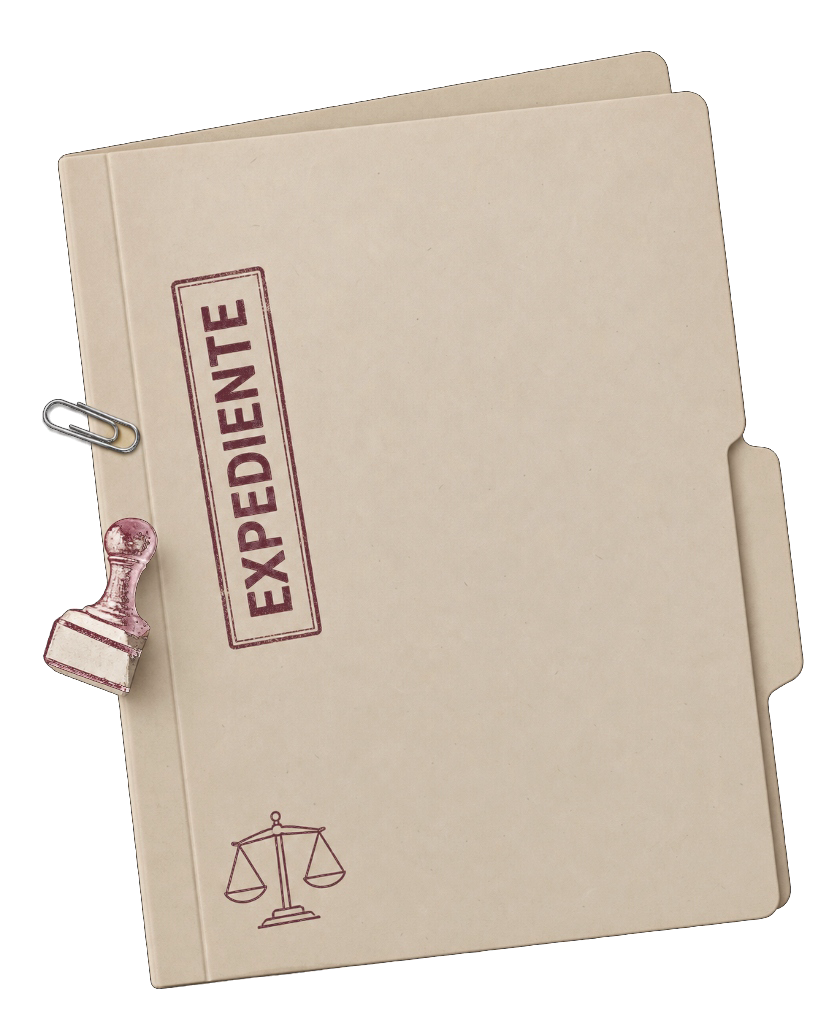
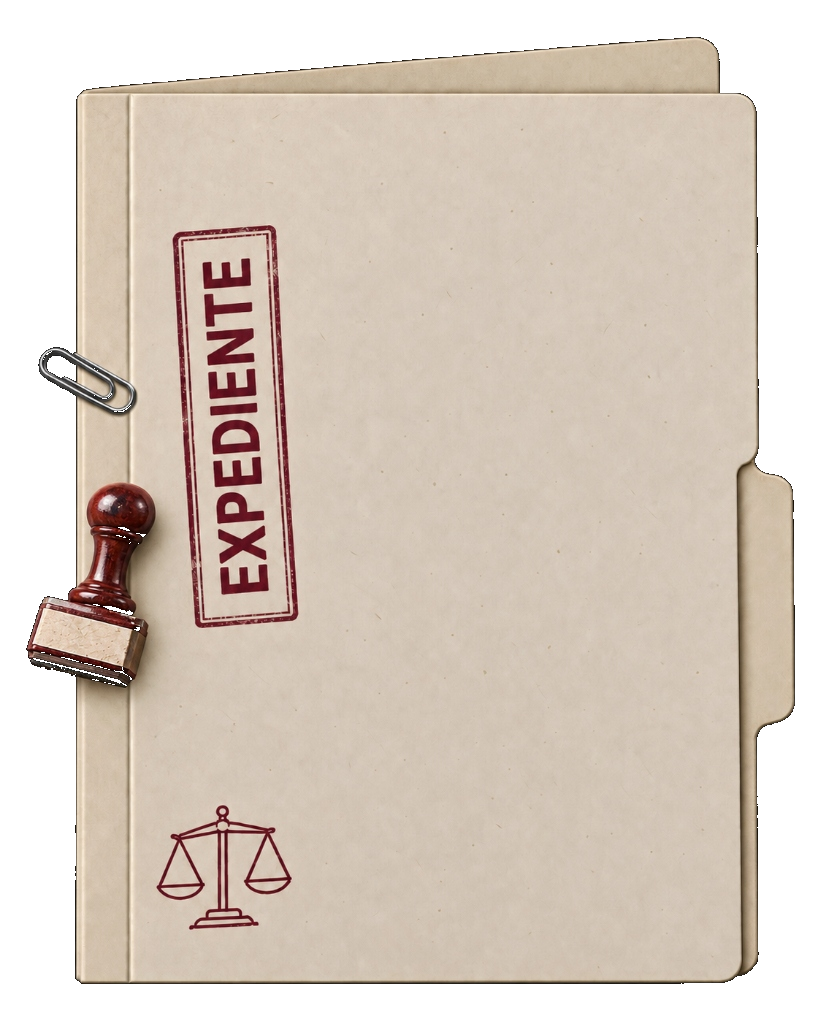
fix(ui): use raw pristine PNG assets with lossless multiply blend for hero graphics

Changed region(s): [[0.0305, 0.0312, 1.0, 0.9688]]

diff --git a/app/globals.css b/app/globals.css
@@ -1,5 +1,5 @@
 :root{--ink:#2c2526;--muted:#736968;--purple:#6b2d3e;--purple-dark:#52222f;--lavender:#f1e8dc;--lavender-soft:#f7f2ea;--line:#e6ded0;--paper:#fbf8f3;--white:#fff;--peach:#f3ebe0;--danger:#9d374c;--radius:20px;--shadow:0 16px 50px rgba(44,37,38,0.07)}
-*{box-sizing:border-box}html{scroll-behavior:smooth;scroll-padding-top:28px}body{margin:0;background:var(--paper);color:var(--ink);font-family:Inter,ui-sans-serif,-apple-system,BlinkMacSystemFont,'Segoe UI',sans-serif;font-size:15px;line-height:1.6}button,input,select,textarea{font:inherit}button,a,input,select,textarea{-webkit-tap-highlight-color:transparent}button{cursor:pointer}button:disabled{cursor:not-allowed;opacity:.5}a{color:inherit;text-decoration:none}button{color:inherit}h1,h2,h3,h4,p{margin-top:0}h1,h2,h3{line-height:1.17;letter-spacing:-.035em}h1{font-size:48px}h2{font-size:34px}h3{font-size:21px}h4{margin-bottom:7px;letter-spacing:-.01em}p{color:var(--muted)}svg{flex-shrink:0;stroke-width:1.65}::selection{background:#f1d6dd}button:focus-visible,a:focus-visible,input:focus-visible,select:focus-visible,textarea:focus-visible,summary:focus-visible{outline:3px solid #6b2d3e;outline-offset:4px}button{transition:background .18s,transform .18s,box-shadow .18s}button:active:not(:disabled){transform:translateY(1px)}.wrap{width:min(1180px,calc(100% - 80px));margin-inline:auto}.button{display:inline-flex;align-items:center;justify-content:center;gap:11px;min-height:50px;padding:13px 25px;border:1px solid transparent;border-radius:25px;background:var(--purple);color:white;font-weight:600;font-size:14px;letter-spacing:.005em;box-shadow:0 4px 14px rgba(107,45,62,0.18)}.button:hover:not(:disabled){background:var(--purple-dark);box-shadow:0 7px 22px rgba(107,45,62,0.28)}.button.small{min-height:40px;padding:9px 18px;font-size:13px;border-radius:20px}.button.outline{background:transparent;border-color:#dcd1c0;color:var(--ink);box-shadow:none}.button.outline:hover:not(:disabled){background:var(--lavender);border-color:var(--line)}.button.light{background:white;color:var(--purple-dark)}.text-button,.quiet-link,.back-button{border:0;background:none;display:inline-flex;align-items:center;gap:8px;padding:0;color:var(--ink);font-size:13px;font-weight:600}.text-button:hover,.quiet-link:hover{text-decoration:underline}.icon-button{display:inline-flex;align-items:center;justify-content:center;width:36px;height:36px;padding:0;border:0;background:transparent;border-radius:9px}.icon-button:hover{background:var(--lavender)}.brand{font-size:28px;letter-spacing:-1.5px;font-weight:750;white-space:nowrap;color:var(--ink)}.brand>span:not(.brand-dot){font-weight:430}.brand-dot{color:var(--purple);font-weight:800}.public-header{height:104px;display:flex;align-items:center;justify-content:space-between}.public-header nav{display:flex;align-items:center;gap:35px;font-size:13px}.public-header nav a:hover{color:var(--purple)}.public-header nav .text-button{color:var(--ink);font-weight:400}.hero{display:grid;grid-template-columns:1fr 1.05fr;align-items:center;min-height:640px;gap:40px;padding-top:20px;padding-bottom:50px}.eyebrow{display:flex;align-items:center;gap:9px;font-size:12px;letter-spacing:.02em;color:var(--muted);margin-bottom:27px}.tiny-dot{display:inline-block;width:6px;height:6px;border-radius:50%;background:var(--purple);flex-shrink:0}.hero h1{font-size:clamp(46px,4.8vw,68px);font-weight:700;letter-spacing:-.045em;line-height:1.08;margin-bottom:25px;color:var(--ink)}.hero h1 em{font-family:Georgia,'Times New Roman',serif;font-weight:400;font-style:italic;color:var(--purple);letter-spacing:-.04em}.hero-description{font-size:17px;line-height:1.75;max-width:440px;color:var(--muted)}.hero-actions{display:flex;gap:25px;align-items:center;margin-top:31px}.quiet-link{color:var(--ink);font-size:13px;font-weight:600}.quiet-link span{font-size:16px;margin-left:4px}.hero-note{display:flex;gap:8px;align-items:center;font-size:11px;color:var(--muted);margin-top:26px}.hero-visual{position:relative;isolation:isolate;min-height:540px;width:100%;display:flex;align-items:center;justify-content:center;margin-top:10px}.courthouse-bg{position:absolute;right:-50px;top:-40px;width:580px;height:auto;opacity:.42;pointer-events:none;z-index:0}.hero-img{max-width:100%;height:auto;display:block}.layer-expediente{position:absolute;left:-35px;top:-15px;width:385px;z-index:1;filter:drop-shadow(0 14px 40px rgba(60,45,35,0.12))}.layer-tutela{position:absolute;right:-35px;top:-15px;width:380px;z-index:2;filter:drop-shadow(0 16px 45px rgba(50,40,30,0.11))}.layer-tu-caso-wrapper{position:relative;width:375px;z-index:4;transform:rotate(-1.5deg);filter:drop-shadow(0 25px 50px rgba(50,30,40,0.16));animation:card-enter .75s both}.layer-tu-caso{width:100%;height:auto;display:block}.tu-caso-overlay{position:absolute;left:26px;right:26px;top:110px;bottom:35px;display:flex;flex-direction:column;pointer-events:none}.tu-caso-overlay h2{font-size:18px;line-height:1.25;font-weight:700;color:var(--ink);margin-bottom:3px}.tu-caso-overlay p{font-size:11px;color:var(--muted);margin-bottom:12px}.folder-underlay{position:absolute;left:-15px;top:20px;width:370px;height:445px;background:#eadecb;border:1px solid #dacbb6;border-radius:26px;transform:rotate(-8deg);box-shadow:0 14px 40px rgba(60,45,35,0.08);z-index:1;padding:24px}.folder-underlay .tab-top{position:absolute;top:-22px;left:65px;width:125px;height:24px;background:#eadecb;border-radius:14px 14px 0 0;border:1px solid #dacbb6;border-bottom:none}.folder-underlay .tab-right{position:absolute;right:-18px;top:140px;width:20px;height:110px;background:#eadecb;border-radius:0 14px 14px 0;border:1px solid #dacbb6;border-left:none}.folder-underlay .stamp-vertical{position:absolute;left:22px;top:75px;writing-mode:vertical-rl;transform:rotate(180deg);font-size:15px;font-weight:800;letter-spacing:.25em;color:#8a3748;border:2.5px solid #8a3748;padding:14px 5px;border-radius:4px;opacity:.88}.folder-underlay .stamp-handle-pos{position:absolute;left:-10px;bottom:135px;transform:rotate(-12deg);opacity:.9;filter:drop-shadow(0 4px 10px rgba(0,0,0,0.15))}.folder-underlay .scale-stamp-pos{position:absolute;left:40px;bottom:35px;opacity:.38;color:#6b2d3e}.folder-paperclip{position:absolute;left:135px;top:-14px;z-index:3;transform:rotate(-12deg);filter:drop-shadow(0 2px 4px rgba(0,0,0,0.15))}.tutela-sheet{position:absolute;right:-20px;top:30px;width:355px;height:435px;background:#ffffff;border:1px solid #e3d8ca;border-radius:18px;transform:rotate(8deg);box-shadow:0 16px 45px rgba(50,40,30,0.07);z-index:2;padding:26px 24px;display:flex;flex-direction:column}.tutela-paperclip{position:absolute;right:32px;top:-14px;z-index:3;transform:rotate(22deg);filter:drop-shadow(0 2px 4px rgba(0,0,0,0.15))}.tutela-header{text-align:center;border-bottom:1px solid #ede4d7;padding-bottom:10px;margin-bottom:10px}.tutela-escudo{width:26px;height:26px;margin:0 auto 4px;opacity:.85}.tutela-header small{display:block;font-size:8.5px;font-weight:800;letter-spacing:.15em;color:var(--ink)}.tutela-header b{display:block;font-size:13px;font-weight:800;letter-spacing:.05em;color:var(--ink);margin-top:2px}.tutela-body{font-size:8.5px;color:#7e7473;line-height:1.55;flex:1;overflow:hidden}.tutela-seal{position:absolute;right:25px;bottom:55px;width:80px;height:80px;border:2px dashed #8c3547;border-radius:50%;display:flex;flex-direction:column;align-items:center;justify-content:center;color:#8c3547;font-size:6.5px;font-weight:800;text-align:center;padding:4px;transform:rotate(-14deg);opacity:.85;background:rgba(255,255,255,0.85)}.bottom-paperclip{position:absolute;right:20px;bottom:-12px;z-index:3;transform:rotate(-45deg);filter:drop-shadow(0 2px 4px rgba(0,0,0,0.15))}.signature-line{border-top:1px solid #736968;width:98px;font-size:9.5px;font-family:Georgia,serif;font-style:italic;color:var(--ink);padding-top:2px;margin-top:auto}.dossier-card{background:white;width:375px;padding:24px;border-radius:24px;box-shadow:0 30px 75px rgba(50,30,40,0.13);border:1px solid #ebdcc9;transform:rotate(-1.5deg);position:relative;z-index:4;animation:card-enter .75s both}.card-tab{position:absolute;top:-23px;left:32px;background:#efe6d8;border:1px solid #ebdcc9;border-bottom:none;border-radius:12px 12px 0 0;padding:4px 20px;font-size:12px;font-weight:600;color:var(--purple)}.card-top-row{display:flex;align-items:center;justify-content:space-between;margin-bottom:14px}.card-folder-badge{width:42px;height:42px;border-radius:12px;background:#f3eae3;display:flex;align-items:center;justify-content:center;color:var(--purple);border:1px solid #e7dcce;margin-bottom:14px}.badge-progress{background:#efe7db;color:var(--ink);font-size:10px;font-weight:500;padding:4px 12px;border-radius:20px;border:1px solid #e2d6c4}.dossier-card .overline{font-size:9px;font-weight:700;letter-spacing:.12em;color:var(--purple);margin-bottom:6px;display:block}.dossier-card h2{font-size:21px;line-height:1.25;font-weight:700;color:var(--ink);margin-bottom:6px}.dossier-card>p{font-size:12px;color:var(--muted);margin-bottom:18px}.card-item-row{display:flex;align-items:center;gap:12px;background:#f9f5ee;border:1px solid #eee4d5;border-radius:14px;padding:12px 14px;margin-bottom:10px}.card-item-icon{width:38px;height:38px;border-radius:10px;background:white;display:flex;align-items:center;justify-content:center;color:var(--purple);border:1px solid #e7dcce;flex-shrink:0}.card-item-info{flex:1;min-width:0}.card-item-info b{display:block;font-size:12px;font-weight:700;color:var(--ink)}.card-item-info span{display:block;font-size:10px;color:var(--muted);margin-top:1px}.check-badge{width:22px;height:22px;border-radius:50%;background:#387250;color:white;display:flex;align-items:center;justify-content:center;flex-shrink:0}.row-right-icons{display:flex;align-items:center;gap:6px;margin-left:auto}.avatar-group{display:flex;align-items:center}.avatar-thumb{width:24px;height:24px;border-radius:50%;border:2px solid white;margin-left:-6px;object-fit:cover;background:#6b2d3e;color:white;display:inline-flex;align-items:center;justify-content:center;font-size:9px;font-weight:700}.avatar-thumb.two{background:#4a242e}.floating-pill{position:absolute;z-index:6;background:white;border:1px solid #e7dcce;border-radius:30px;padding:8px 16px;box-shadow:0 10px 25px rgba(50,35,40,0.08);display:flex;align-items:center;gap:8px;font-size:11px;font-weight:500;color:var(--ink);white-space:nowrap}.fp-top-left{left:-35px;top:65px;padding:9px 16px}.fp-top-left div{line-height:1.2}.fp-top-left b{display:block;font-size:11px;font-weight:700}.fp-top-left span{font-size:10px;color:var(--muted)}.fp-top-right{right:-15px;top:5px}.fp-bottom-left{left:-25px;bottom:55px}.fp-bottom-center{left:60px;bottom:-20px}.fp-bottom-right{right:-30px;bottom:20px}.examples{text-align:center;padding:35px 0 65px}.examples p{font-size:13px;margin-bottom:18px;color:var(--muted);font-weight:500}.examples>div{display:flex;justify-content:center;gap:12px;flex-wrap:wrap}.example-pill{display:inline-flex;gap:12px;align-items:center;padding:10px 20px;border:1px solid #e2d6c5;border-radius:30px;background:#f3ede3;font-size:12px;color:var(--ink);font-weight:500}.example-pill:hover,.example-pill.active{background:#efe4d4;border-color:var(--purple);color:var(--purple);font-weight:600}.examples small{font-size:11px;display:block;margin-top:20px;color:var(--muted)}.how-section{background:#f5efe4;padding:75px 0}.section-heading{display:flex;justify-content:space-between;align-items:center;gap:20px;margin-bottom:31px}.section-heading h2{margin-bottom:0;font-weight:530}.section-heading p{font-size:13px;margin:0;line-height:1.8}.steps-grid{display:grid;grid-template-columns:repeat(3,1fr);gap:20px}.step-card{background:#fff;padding:29px;border-radius:17px;border:1px solid #ebe5f0}.step-top{display:flex;align-items:center;justify-content:space-between;color:var(--purple);margin-bottom:31px}.step-top span{font-size:11px;letter-spacing:.04em;color:#b7a3c7}.step-card h3{font-size:19px;font-weight:550;margin-bottom:14px}.step-card p{font-size:12px;line-height:1.9;margin-bottom:0}.privacy-section{display:grid;grid-template-columns:1fr 1fr;gap:85px;align-items:center;padding:100px 70px}.privacy-section h2{font-size:39px;font-weight:520}.privacy-section p{font-size:13px;max-width:400px}.privacy-art{height:286px;border:1px solid #e7deed;border-radius:50%;background:radial-gradient(ellipse,#eee5f5 0%,#f9f5fc 60%,#fcfbf9 70%);display:flex;align-items:center;justify-content:center;position:relative;color:var(--purple)}.privacy-art>img{width:78%;height:auto;border-radius:20px;box-shadow:0 14px 45px #6b4b8710;transform:rotate(-5deg)}.privacy-lock{position:absolute;left:25px;top:24px;width:49px;height:49px;border-radius:15px;background:#faf7fc;border:1px solid #ddcce9;display:flex;align-items:center;justify-content:center;color:var(--purple);box-shadow:0 10px 25px #6b4b8714}.privacy-art>svg{box-sizing:content-box;padding:29px;border:1px solid #ddcce9;border-radius:24px;background:#faf7fc;box-shadow:0 14px 45px #6b4b8710;transform:rotate(-8deg)}.privacy-art .tag{position:absolute;bottom:35px;right:0;font-size:11px;padding:8px 15px;transform:rotate(3deg)}.check-list{padding:0;list-style:none;margin:23px 0 0}.check-list li{display:flex;align-items:center;gap:9px;font-size:12px;color:var(--muted);margin-bottom:12px}.check-list svg{color:var(--purple)}.lawyer-banner{padding:39px 45px;background:#f2e9dc;border:1px solid #e4d7c6;border-radius:21px;display:flex;justify-content:space-between;align-items:center;gap:35px}.lawyer-banner h2{font-size:29px;font-weight:520;margin-bottom:11px}.lawyer-banner p{font-size:12px;margin:0;color:var(--muted)}.lawyer-banner .overline{font-size:8px;color:var(--purple)}.lawyer-banner .button{white-space:nowrap}.faq{display:grid;grid-template-columns:.85fr 1.15fr;gap:80px;padding-block:100px}.faq h2{font-size:32px;font-weight:500}.faq details{border-bottom:1px solid var(--line);padding:20px 0}.faq details:first-child{padding-top:0}.faq summary{list-style:none;font-size:13px;font-weight:550;cursor:pointer;display:flex;align-items:center;justify-content:space-between;gap:20px}.faq summary::-webkit-details-marker{display:none}.faq details p{font-size:12px;margin:15px 30px 0 0;line-height:1.85}.faq details[open] summary svg{transform:rotate(45deg)}.faq summary svg{transition:transform .2s;color:var(--purple)}.final-cta{text-align:center;padding:15px 0 85px}.final-cta>svg{color:var(--purple);margin-bottom:15px}.final-cta h2{font-size:31px;font-weight:500;margin-bottom:23px}footer{padding:28px 0;display:flex;align-items:center;gap:35px;border-top:1px solid var(--line)}footer .brand{font-size:23px}footer>span{font-size:10px;color:var(--muted)}footer>div{margin-left:auto;display:flex;gap:19px}footer button{background:none;border:0;padding:0;font-size:10px;color:var(--muted)}
+*{box-sizing:border-box}html{scroll-behavior:smooth;scroll-padding-top:28px}body{margin:0;background:var(--paper);color:var(--ink);font-family:Inter,ui-sans-serif,-apple-system,BlinkMacSystemFont,'Segoe UI',sans-serif;font-size:15px;line-height:1.6}button,input,select,textarea{font:inherit}button,a,input,select,textarea{-webkit-tap-highlight-color:transparent}button{cursor:pointer}button:disabled{cursor:not-allowed;opacity:.5}a{color:inherit;text-decoration:none}button{color:inherit}h1,h2,h3,h4,p{margin-top:0}h1,h2,h3{line-height:1.17;letter-spacing:-.035em}h1{font-size:48px}h2{font-size:34px}h3{font-size:21px}h4{margin-bottom:7px;letter-spacing:-.01em}p{color:var(--muted)}svg{flex-shrink:0;stroke-width:1.65}::selection{background:#f1d6dd}button:focus-visible,a:focus-visible,input:focus-visible,select:focus-visible,textarea:focus-visible,summary:focus-visible{outline:3px solid #6b2d3e;outline-offset:4px}button{transition:background .18s,transform .18s,box-shadow .18s}button:active:not(:disabled){transform:translateY(1px)}.wrap{width:min(1180px,calc(100% - 80px));margin-inline:auto}.button{display:inline-flex;align-items:center;justify-content:center;gap:11px;min-height:50px;padding:13px 25px;border:1px solid transparent;border-radius:25px;background:var(--purple);color:white;font-weight:600;font-size:14px;letter-spacing:.005em;box-shadow:0 4px 14px rgba(107,45,62,0.18)}.button:hover:not(:disabled){background:var(--purple-dark);box-shadow:0 7px 22px rgba(107,45,62,0.28)}.button.small{min-height:40px;padding:9px 18px;font-size:13px;border-radius:20px}.button.outline{background:transparent;border-color:#dcd1c0;color:var(--ink);box-shadow:none}.button.outline:hover:not(:disabled){background:var(--lavender);border-color:var(--line)}.button.light{background:white;color:var(--purple-dark)}.text-button,.quiet-link,.back-button{border:0;background:none;display:inline-flex;align-items:center;gap:8px;padding:0;color:var(--ink);font-size:13px;font-weight:600}.text-button:hover,.quiet-link:hover{text-decoration:underline}.icon-button{display:inline-flex;align-items:center;justify-content:center;width:36px;height:36px;padding:0;border:0;background:transparent;border-radius:9px}.icon-button:hover{background:var(--lavender)}.brand{font-size:28px;letter-spacing:-1.5px;font-weight:750;white-space:nowrap;color:var(--ink)}.brand>span:not(.brand-dot){font-weight:430}.brand-dot{color:var(--purple);font-weight:800}.public-header{height:104px;display:flex;align-items:center;justify-content:space-between}.public-header nav{display:flex;align-items:center;gap:35px;font-size:13px}.public-header nav a:hover{color:var(--purple)}.public-header nav .text-button{color:var(--ink);font-weight:400}.hero{display:grid;grid-template-columns:1fr 1.05fr;align-items:center;min-height:640px;gap:40px;padding-top:20px;padding-bottom:50px}.eyebrow{display:flex;align-items:center;gap:9px;font-size:12px;letter-spacing:.02em;color:var(--muted);margin-bottom:27px}.tiny-dot{display:inline-block;width:6px;height:6px;border-radius:50%;background:var(--purple);flex-shrink:0}.hero h1{font-size:clamp(46px,4.8vw,68px);font-weight:700;letter-spacing:-.045em;line-height:1.08;margin-bottom:25px;color:var(--ink)}.hero h1 em{font-family:Georgia,'Times New Roman',serif;font-weight:400;font-style:italic;color:var(--purple);letter-spacing:-.04em}.hero-description{font-size:17px;line-height:1.75;max-width:440px;color:var(--muted)}.hero-actions{display:flex;gap:25px;align-items:center;margin-top:31px}.quiet-link{color:var(--ink);font-size:13px;font-weight:600}.quiet-link span{font-size:16px;margin-left:4px}.hero-note{display:flex;gap:8px;align-items:center;font-size:11px;color:var(--muted);margin-top:26px}.hero-visual{position:relative;isolation:isolate;min-height:540px;width:100%;display:flex;align-items:center;justify-content:center;margin-top:10px}.courthouse-bg{position:absolute;right:-50px;top:-40px;width:580px;height:auto;opacity:.42;pointer-events:none;z-index:0}.hero-img{max-width:100%;height:auto;display:block}.layer-expediente{position:absolute;left:-35px;top:-15px;width:385px;z-index:1;mix-blend-mode:multiply;filter:drop-shadow(0 14px 40px rgba(60,45,35,0.12))}.layer-tutela{position:absolute;right:-35px;top:-15px;width:380px;z-index:2;mix-blend-mode:multiply;filter:drop-shadow(0 16px 45px rgba(50,40,30,0.11))}.layer-tu-caso-wrapper{position:relative;width:375px;z-index:4;transform:rotate(-1.5deg);filter:drop-shadow(0 25px 50px rgba(50,30,40,0.16));animation:card-enter .75s both}.layer-tu-caso{width:100%;height:auto;display:block}.tu-caso-overlay{position:absolute;left:26px;right:26px;top:110px;bottom:35px;display:flex;flex-direction:column;pointer-events:none}.tu-caso-overlay h2{font-size:18px;line-height:1.25;font-weight:700;color:var(--ink);margin-bottom:3px}.tu-caso-overlay p{font-size:11px;color:var(--muted);margin-bottom:12px}.folder-underlay{position:absolute;left:-15px;top:20px;width:370px;height:445px;background:#eadecb;border:1px solid #dacbb6;border-radius:26px;transform:rotate(-8deg);box-shadow:0 14px 40px rgba(60,45,35,0.08);z-index:1;padding:24px}.folder-underlay .tab-top{position:absolute;top:-22px;left:65px;width:125px;height:24px;background:#eadecb;border-radius:14px 14px 0 0;border:1px solid #dacbb6;border-bottom:none}.folder-underlay .tab-right{position:absolute;right:-18px;top:140px;width:20px;height:110px;background:#eadecb;border-radius:0 14px 14px 0;border:1px solid #dacbb6;border-left:none}.folder-underlay .stamp-vertical{position:absolute;left:22px;top:75px;writing-mode:vertical-rl;transform:rotate(180deg);font-size:15px;font-weight:800;letter-spacing:.25em;color:#8a3748;border:2.5px solid #8a3748;padding:14px 5px;border-radius:4px;opacity:.88}.folder-underlay .stamp-handle-pos{position:absolute;left:-10px;bottom:135px;transform:rotate(-12deg);opacity:.9;filter:drop-shadow(0 4px 10px rgba(0,0,0,0.15))}.folder-underlay .scale-stamp-pos{position:absolute;left:40px;bottom:35px;opacity:.38;color:#6b2d3e}.folder-paperclip{position:absolute;left:135px;top:-14px;z-index:3;transform:rotate(-12deg);filter:drop-shadow(0 2px 4px rgba(0,0,0,0.15))}.tutela-sheet{position:absolute;right:-20px;top:30px;width:355px;height:435px;background:#ffffff;border:1px solid #e3d8ca;border-radius:18px;transform:rotate(8deg);box-shadow:0 16px 45px rgba(50,40,30,0.07);z-index:2;padding:26px 24px;display:flex;flex-direction:column}.tutela-paperclip{position:absolute;right:32px;top:-14px;z-index:3;transform:rotate(22deg);filter:drop-shadow(0 2px 4px rgba(0,0,0,0.15))}.tutela-header{text-align:center;border-bottom:1px solid #ede4d7;padding-bottom:10px;margin-bottom:10px}.tutela-escudo{width:26px;height:26px;margin:0 auto 4px;opacity:.85}.tutela-header small{display:block;font-size:8.5px;font-weight:800;letter-spacing:.15em;color:var(--ink)}.tutela-header b{display:block;font-size:13px;font-weight:800;letter-spacing:.05em;color:var(--ink);margin-top:2px}.tutela-body{font-size:8.5px;color:#7e7473;line-height:1.55;flex:1;overflow:hidden}.tutela-seal{position:absolute;right:25px;bottom:55px;width:80px;height:80px;border:2px dashed #8c3547;border-radius:50%;display:flex;flex-direction:column;align-items:center;justify-content:center;color:#8c3547;font-size:6.5px;font-weight:800;text-align:center;padding:4px;transform:rotate(-14deg);opacity:.85;background:rgba(255,255,255,0.85)}.bottom-paperclip{position:absolute;right:20px;bottom:-12px;z-index:3;transform:rotate(-45deg);filter:drop-shadow(0 2px 4px rgba(0,0,0,0.15))}.signature-line{border-top:1px solid #736968;width:98px;font-size:9.5px;font-family:Georgia,serif;font-style:italic;color:var(--ink);padding-top:2px;margin-top:auto}.dossier-card{background:white;width:375px;padding:24px;border-radius:24px;box-shadow:0 30px 75px rgba(50,30,40,0.13);border:1px solid #ebdcc9;transform:rotate(-1.5deg);position:relative;z-index:4;animation:card-enter .75s both}.card-tab{position:absolute;top:-23px;left:32px;background:#efe6d8;border:1px solid #ebdcc9;border-bottom:none;border-radius:12px 12px 0 0;padding:4px 20px;font-size:12px;font-weight:600;color:var(--purple)}.card-top-row{display:flex;align-items:center;justify-content:space-between;margin-bottom:14px}.card-folder-badge{width:42px;height:42px;border-radius:12px;background:#f3eae3;display:flex;align-items:center;justify-content:center;color:var(--purple);border:1px solid #e7dcce;margin-bottom:14px}.badge-progress{background:#efe7db;color:var(--ink);font-size:10px;font-weight:500;padding:4px 12px;border-radius:20px;border:1px solid #e2d6c4}.dossier-card .overline{font-size:9px;font-weight:700;letter-spacing:.12em;color:var(--purple);margin-bottom:6px;display:block}.dossier-card h2{font-size:21px;line-height:1.25;font-weight:700;color:var(--ink);margin-bottom:6px}.dossier-card>p{font-size:12px;color:var(--muted);margin-bottom:18px}.card-item-row{display:flex;align-items:center;gap:12px;background:#f9f5ee;border:1px solid #eee4d5;border-radius:14px;padding:12px 14px;margin-bottom:10px}.card-item-icon{width:38px;height:38px;border-radius:10px;background:white;display:flex;align-items:center;justify-content:center;color:var(--purple);border:1px solid #e7dcce;flex-shrink:0}.card-item-info{flex:1;min-width:0}.card-item-info b{display:block;font-size:12px;font-weight:700;color:var(--ink)}.card-item-info span{display:block;font-size:10px;color:var(--muted);margin-top:1px}.check-badge{width:22px;height:22px;border-radius:50%;background:#387250;color:white;display:flex;align-items:center;justify-content:center;flex-shrink:0}.row-right-icons{display:flex;align-items:center;gap:6px;margin-left:auto}.avatar-group{display:flex;align-items:center}.avatar-thumb{width:24px;height:24px;border-radius:50%;border:2px solid white;margin-left:-6px;object-fit:cover;background:#6b2d3e;color:white;display:inline-flex;align-items:center;justify-content:center;font-size:9px;font-weight:700}.avatar-thumb.two{background:#4a242e}.floating-pill{position:absolute;z-index:6;background:white;border:1px solid #e7dcce;border-radius:30px;padding:8px 16px;box-shadow:0 10px 25px rgba(50,35,40,0.08);display:flex;align-items:center;gap:8px;font-size:11px;font-weight:500;color:var(--ink);white-space:nowrap}.fp-top-left{left:-35px;top:65px;padding:9px 16px}.fp-top-left div{line-height:1.2}.fp-top-left b{display:block;font-size:11px;font-weight:700}.fp-top-left span{font-size:10px;color:var(--muted)}.fp-top-right{right:-15px;top:5px}.fp-bottom-left{left:-25px;bottom:55px}.fp-bottom-center{left:60px;bottom:-20px}.fp-bottom-right{right:-30px;bottom:20px}.examples{text-align:center;padding:35px 0 65px}.examples p{font-size:13px;margin-bottom:18px;color:var(--muted);font-weight:500}.examples>div{display:flex;justify-content:center;gap:12px;flex-wrap:wrap}.example-pill{display:inline-flex;gap:12px;align-items:center;padding:10px 20px;border:1px solid #e2d6c5;border-radius:30px;background:#f3ede3;font-size:12px;color:var(--ink);font-weight:500}.example-pill:hover,.example-pill.active{background:#efe4d4;border-color:var(--purple);color:var(--purple);font-weight:600}.examples small{font-size:11px;display:block;margin-top:20px;color:var(--muted)}.how-section{background:#f5efe4;padding:75px 0}.section-heading{display:flex;justify-content:space-between;align-items:center;gap:20px;margin-bottom:31px}.section-heading h2{margin-bottom:0;font-weight:530}.section-heading p{font-size:13px;margin:0;line-height:1.8}.steps-grid{display:grid;grid-template-columns:repeat(3,1fr);gap:20px}.step-card{background:#fff;padding:29px;border-radius:17px;border:1px solid #ebe5f0}.step-top{display:flex;align-items:center;justify-content:space-between;color:var(--purple);margin-bottom:31px}.step-top span{font-size:11px;letter-spacing:.04em;color:#b7a3c7}.step-card h3{font-size:19px;font-weight:550;margin-bottom:14px}.step-card p{font-size:12px;line-height:1.9;margin-bottom:0}.privacy-section{display:grid;grid-template-columns:1fr 1fr;gap:85px;align-items:center;padding:100px 70px}.privacy-section h2{font-size:39px;font-weight:520}.privacy-section p{font-size:13px;max-width:400px}.privacy-art{height:286px;border:1px solid #e7deed;border-radius:50%;background:radial-gradient(ellipse,#eee5f5 0%,#f9f5fc 60%,#fcfbf9 70%);display:flex;align-items:center;justify-content:center;position:relative;color:var(--purple)}.privacy-art>img{width:78%;height:auto;border-radius:20px;box-shadow:0 14px 45px #6b4b8710;transform:rotate(-5deg)}.privacy-lock{position:absolute;left:25px;top:24px;width:49px;height:49px;border-radius:15px;background:#faf7fc;border:1px solid #ddcce9;display:flex;align-items:center;justify-content:center;color:var(--purple);box-shadow:0 10px 25px #6b4b8714}.privacy-art>svg{box-sizing:content-box;padding:29px;border:1px solid #ddcce9;border-radius:24px;background:#faf7fc;box-shadow:0 14px 45px #6b4b8710;transform:rotate(-8deg)}.privacy-art .tag{position:absolute;bottom:35px;right:0;font-size:11px;padding:8px 15px;transform:rotate(3deg)}.check-list{padding:0;list-style:none;margin:23px 0 0}.check-list li{display:flex;align-items:center;gap:9px;font-size:12px;color:var(--muted);margin-bottom:12px}.check-list svg{color:var(--purple)}.lawyer-banner{padding:39px 45px;background:#f2e9dc;border:1px solid #e4d7c6;border-radius:21px;display:flex;justify-content:space-between;align-items:center;gap:35px}.lawyer-banner h2{font-size:29px;font-weight:520;margin-bottom:11px}.lawyer-banner p{font-size:12px;margin:0;color:var(--muted)}.lawyer-banner .overline{font-size:8px;color:var(--purple)}.lawyer-banner .button{white-space:nowrap}.faq{display:grid;grid-template-columns:.85fr 1.15fr;gap:80px;padding-block:100px}.faq h2{font-size:32px;font-weight:500}.faq details{border-bottom:1px solid var(--line);padding:20px 0}.faq details:first-child{padding-top:0}.faq summary{list-style:none;font-size:13px;font-weight:550;cursor:pointer;display:flex;align-items:center;justify-content:space-between;gap:20px}.faq summary::-webkit-details-marker{display:none}.faq details p{font-size:12px;margin:15px 30px 0 0;line-height:1.85}.faq details[open] summary svg{transform:rotate(45deg)}.faq summary svg{transition:transform .2s;color:var(--purple)}.final-cta{text-align:center;padding:15px 0 85px}.final-cta>svg{color:var(--purple);margin-bottom:15px}.final-cta h2{font-size:31px;font-weight:500;margin-bottom:23px}footer{padding:28px 0;display:flex;align-items:center;gap:35px;border-top:1px solid var(--line)}footer .brand{font-size:23px}footer>span{font-size:10px;color:var(--muted)}footer>div{margin-left:auto;display:flex;gap:19px}footer button{background:none;border:0;padding:0;font-size:10px;color:var(--muted)}
 /* Shared forms and feedback */
 .muted{color:var(--muted)}.microcopy{font-size:11px;line-height:1.7;color:var(--muted)}.preserve{white-space:pre-wrap;overflow-wrap:anywhere}.modal{border:1px solid var(--line);border-radius:23px;box-shadow:0 30px 100px #20132935;background:var(--paper);color:var(--ink);padding:29px;width:min(600px,calc(100% - 32px));max-height:90dvh;overflow:auto;overscroll-behavior:contain}.modal::backdrop{background:#29203766;backdrop-filter:blur(4px)}.modal-head{display:flex;align-items:flex-start;justify-content:space-between;gap:20px;margin-bottom:15px}.modal-head h2{font-size:27px;font-weight:550;max-width:430px;margin:0}.modal>p{font-size:13px}.form-stack{display:flex;flex-direction:column;gap:18px;margin-top:20px}.form-stack>.button{align-self:flex-start}.field{display:flex;flex-direction:column;gap:7px;font-size:12px;font-weight:550;color:var(--ink)}.field small{font-size:10px;line-height:1.6;font-weight:400;color:var(--muted)}input:not([type=checkbox]):not([type=file]),select,textarea{border:1px solid #dfd7e7;background:white;color:var(--ink);border-radius:10px;padding:11px 13px;width:100%;font-size:13px;min-width:0}textarea{resize:vertical;line-height:1.7}input::placeholder,textarea::placeholder{color:#a49bab;font-weight:400}input[type=checkbox]{accent-color:var(--purple);width:17px;height:17px;margin:2px 0 0;flex-shrink:0}select{min-height:43px}.form-grid{display:grid;grid-template-columns:1fr 1fr;gap:15px}.checkbox-line{display:flex;gap:11px;font-size:12px;align-items:flex-start;color:var(--muted);line-height:1.7}.specialties{border:1px solid var(--line);border-radius:12px;padding:14px;display:flex;gap:10px 18px;flex-wrap:wrap}.specialties legend{font-size:12px;font-weight:550}.specialties label{display:flex;gap:6px;font-size:12px}.notice-panel{padding:17px 20px;border:1px solid #dfd3e9;background:var(--lavender-soft);border-radius:13px;margin:16px 0;color:var(--purple-dark);font-size:12px;line-height:1.8}.notice-panel p{margin:8px 0;color:inherit;white-space:pre-wrap;overflow-wrap:anywhere}.notice-panel.error{border-color:#e8cbd3;color:var(--danger)}.notice-panel .text-button{margin-left:12px}.auth-links{display:flex;justify-content:space-between;gap:20px;margin-top:22px}.oauth-button{width:100%;display:flex;align-items:center;justify-content:center;gap:10px;min-height:46px;border:1px solid #d8c9e3;border-radius:11px;background:white;color:var(--ink);font-size:13px;font-weight:600}.oauth-button:hover:not(:disabled){background:var(--lavender);border-color:#c4add6}.auth-divider{display:flex;align-items:center;gap:12px;margin:17px 0 2px;color:var(--muted);font-size:10px}.auth-divider:before,.auth-divider:after{content:"";height:1px;background:var(--line);flex:1}.auth-divider span{white-space:nowrap}.auth-links button{border:0;background:none;padding:0;font-size:11px;color:var(--purple)}.info-paragraph{line-height:1.85;font-size:13px}.toast{position:fixed;z-index:1000;bottom:25px;left:50%;transform:translateX(-50%);background:#fff;border:1px solid #d7c6e2;border-radius:14px;box-shadow:0 8px 50px #30243d22;padding:15px 17px;display:flex;align-items:center;gap:12px;width:max-content;max-width:min(650px,calc(100% - 32px));font-size:12px;color:var(--purple-dark)}.toast.error{color:var(--danger);border-color:#e9c8d1}.toast button{background:none;border:0;display:flex;color:inherit;padding:4px}.toast span{overflow-wrap:anywhere;max-height:180px;overflow:auto}.danger{color:var(--danger)!important}.danger-bg{background:var(--danger)}
 /* Workspace */
